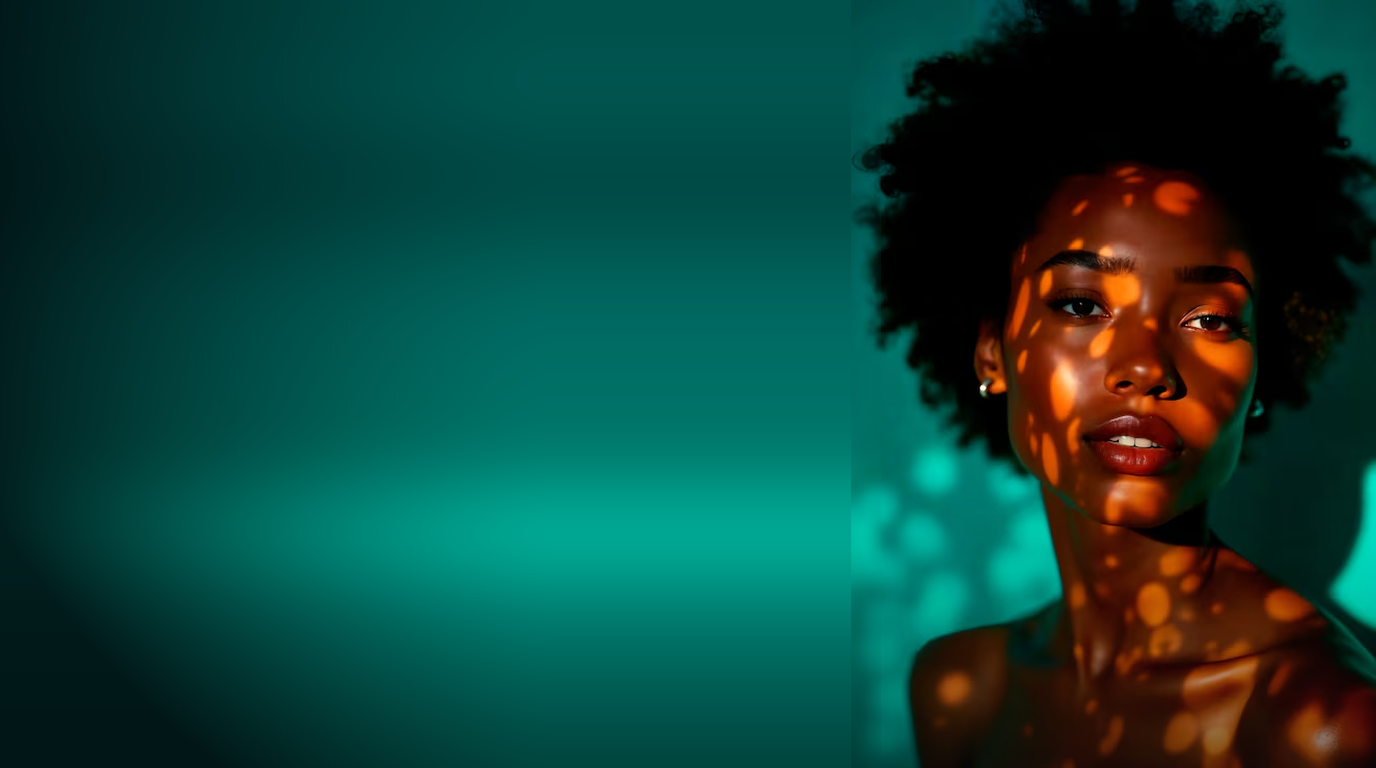
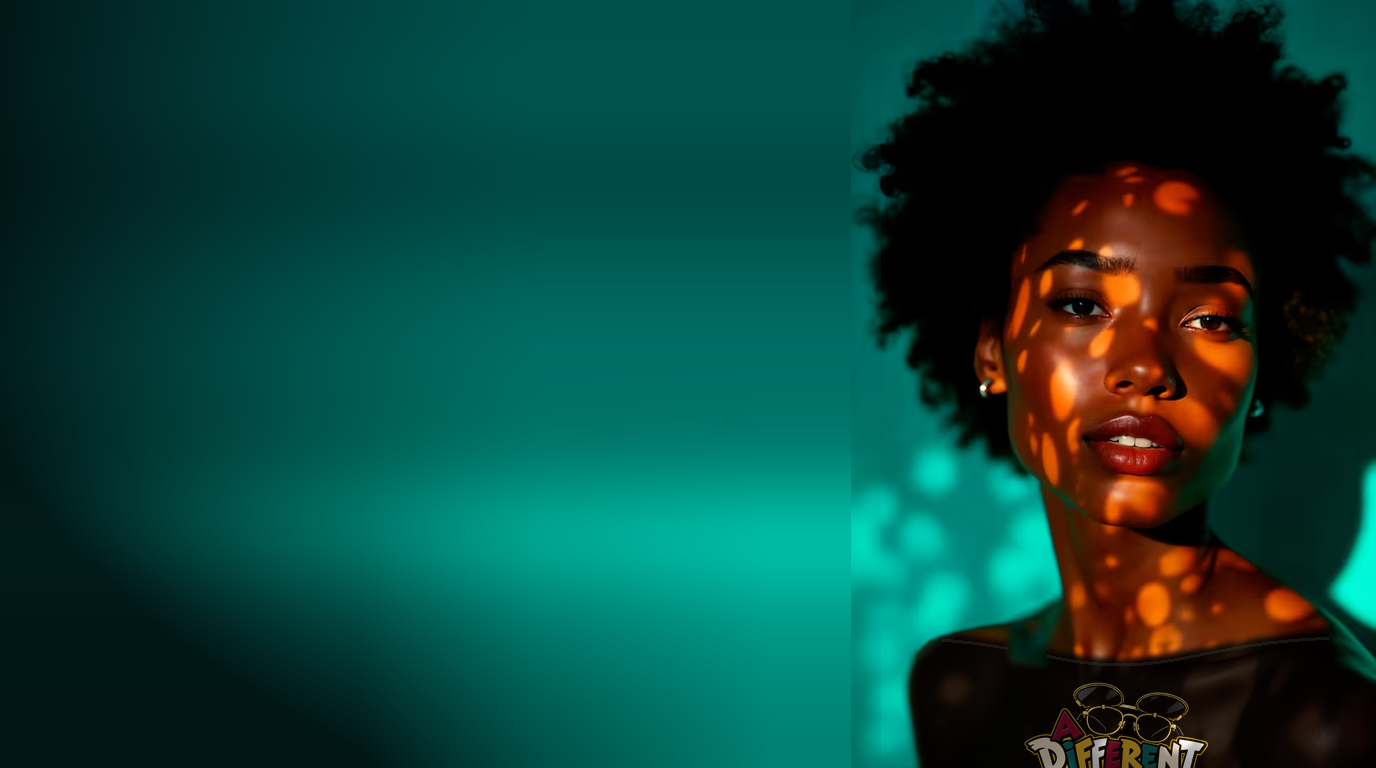
Dress hero model in a dark tee with an A Different World chest print, rebalance overlays
- Converted the bare shoulders into a black tee that catches the same dappled
  light, so it reads as apparel, not a retouch.
- Added a small "A Different World" chest print to signal the prints we sell.
- Rebalanced the hero overlays to a bottom-left bias (radial for the headline)
  so the right side stays lit and the chest print shows instead of being
  crushed by the old full-width bottom fade.

Claude-Session: https://claude.ai/code/session_01BQxe5atGbDBoqwjdGaZKTc

Changed region(s): [[0.4375, 0.6875, 1.0, 1.0], [0.0625, 0.7188, 0.2812, 1.0]]

diff --git a/components/home/hero.tsx b/components/home/hero.tsx
@@ -19,7 +19,11 @@ export function Hero() {
       />
       <div
         aria-hidden="true"
-        className="absolute inset-0 -z-10 bg-gradient-to-t from-background via-background/70 to-background/20"
+        className="absolute inset-0 -z-10 bg-gradient-to-t from-background/40 via-transparent to-background/15"
+      />
+      <div
+        aria-hidden="true"
+        className="absolute inset-0 -z-10 bg-[radial-gradient(130%_100%_at_0%_100%,var(--background)_20%,transparent_62%)]"
       />
       <div
         aria-hidden="true"
